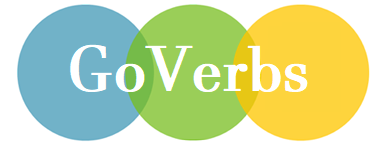
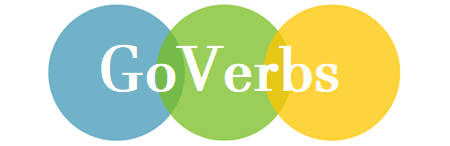
website images display

diff --git a/src/components/SiteImageArray.js b/src/components/SiteImageArray.js
@@ -1,0 +1,33 @@
+import ArrayImage from './ArrayImage'
+import countryMeadow from '../assets/website-icons/country-meadow.png';
+import dotsDots from '../assets/website-icons/dots-dots.png';
+import goVerbs from '../assets/website-icons/go-verbs.png';
+import fredsMaze from '../assets/website-icons/freds-maze.png';
+import nucampSite from '../assets/website-icons/nucamp.png';
+import { useWindowWidth } from '@react-hook/window-size'
+
+const SiteImageArray = (props) => {
+    const websiteImages = [
+        { img: countryMeadow, alt: 'Kymeta logo', class: 'fixed-position corporate-logo image2-position' },
+        { img: dotsDots, alt: 'Fujifilm logo', class: 'fixed-position corporate-logo image3-position' },
+
+        { img: goVerbs, alt: 'Boeing logo', class: 'fixed-position corporate-logo-large image5-position' },
+
+        { img: fredsMaze, alt: 'Elektrobit logo', class: 'fixed-position corporate-logo image7-position' },
+        { img: nucampSite, alt: 'Schneider Electric logo', class: 'fixed-position corporate-logo image8-position' },
+        //{ img: GoVerbs, alt: 'Schneider Electric logo', class: 'fixed-position corporate-logo image9-position' },
+
+        //{ img: Portrait, alt: 'a hard working guy', class: 'fixed-position portrait-position portrait' }
+    ];
+
+    return (
+        <div className='images-container'>
+            {websiteImages.map((message, index) => (
+                <ArrayImage key={index} image={message} />
+            ))}
+            <p className='window-size-test test-position'>{ props.windowWidth }</p>
+        </div>
+    )
+}
+
+export default SiteImageArray;

diff --git a/src/App.js b/src/App.js
@@ -1,6 +1,7 @@
 import './App.css';
 import Navbar from './components/Navbar';
-import ImageArray from './components/ImageArray';
+import JobImageArray from './components/JobImageArray';
+import SiteImageArray from './components/SiteImageArray';
 import { useReducer, createContext, useState, useEffect } from 'react';
 import ButtonStateContext from './components/ButtonState';
 import Store from './Store'
@@ -36,7 +37,7 @@ function App() {
             <Navbar  windowWidth={windowSize[0]}/>
             <div className='image-area'>
                 <div className='circle-container' >
-                    <ImageArray windowWidth={windowSize[0]} />
+                    <SiteImageArray windowWidth={windowSize[0]} />
                 </div>
             </div>
         </Store.Provider>

diff --git a/src/components/JobImageArray.js b/src/components/JobImageArray.js
@@ -12,7 +12,7 @@ import ThermoFisher from '../assets/employer-icons/thermo-fisher-1.png';
 import GoVerbs from '../assets/website-icons/go-verbs.png';
 import { useWindowWidth } from '@react-hook/window-size'
 
-const ImageArray = (props) => {
+const JobImageArray = (props) => {
     const workHistoryImages = [
         { img: Kymeta, alt: 'Kymeta logo', class: 'fixed-position corporate-logo image1-position' },
         { img: Tektronix, alt: 'Tektronix logo', class: 'fixed-position corporate-logo image2-position' },
@@ -40,4 +40,4 @@ const ImageArray = (props) => {
     )
 }
 
-export default ImageArray;
+export default JobImageArray;

diff --git a/src/components/NavButton.js b/src/components/NavButton.js
@@ -22,8 +22,6 @@ const NavButton = (props) => {
     }
 
     const onMouseEnter = () => {
-        console.log('MOUSE ENTER  STEP:', fontSize, ' to ', expandedFontSize);
-
         setStep({
             fontSizeStart: fontSize,
             fontSizeEnd: expandedFontSize,
@@ -31,8 +29,6 @@ const NavButton = (props) => {
     }
 
     const onMouseLeave = () => {
-        console.log('MOUSE LEAVE');
-
         setStep({
             fontSizeStart: expandedFontSize,
             fontSizeEnd: fontSize,

diff --git a/src/App.css b/src/App.css
@@ -76,6 +76,10 @@ body{
     height: 100px;
 }
 
+.corporate-logo-large  {
+    height: 120px;
+}
+
 .test-position { transform: translate(300px, 300px); }
 .portrait-position { transform: translate(-50%, -50%); }
 .image1-position { transform:  translate(-50%, -50%) rotate(-54deg) translate(380px) rotate(54deg); }
